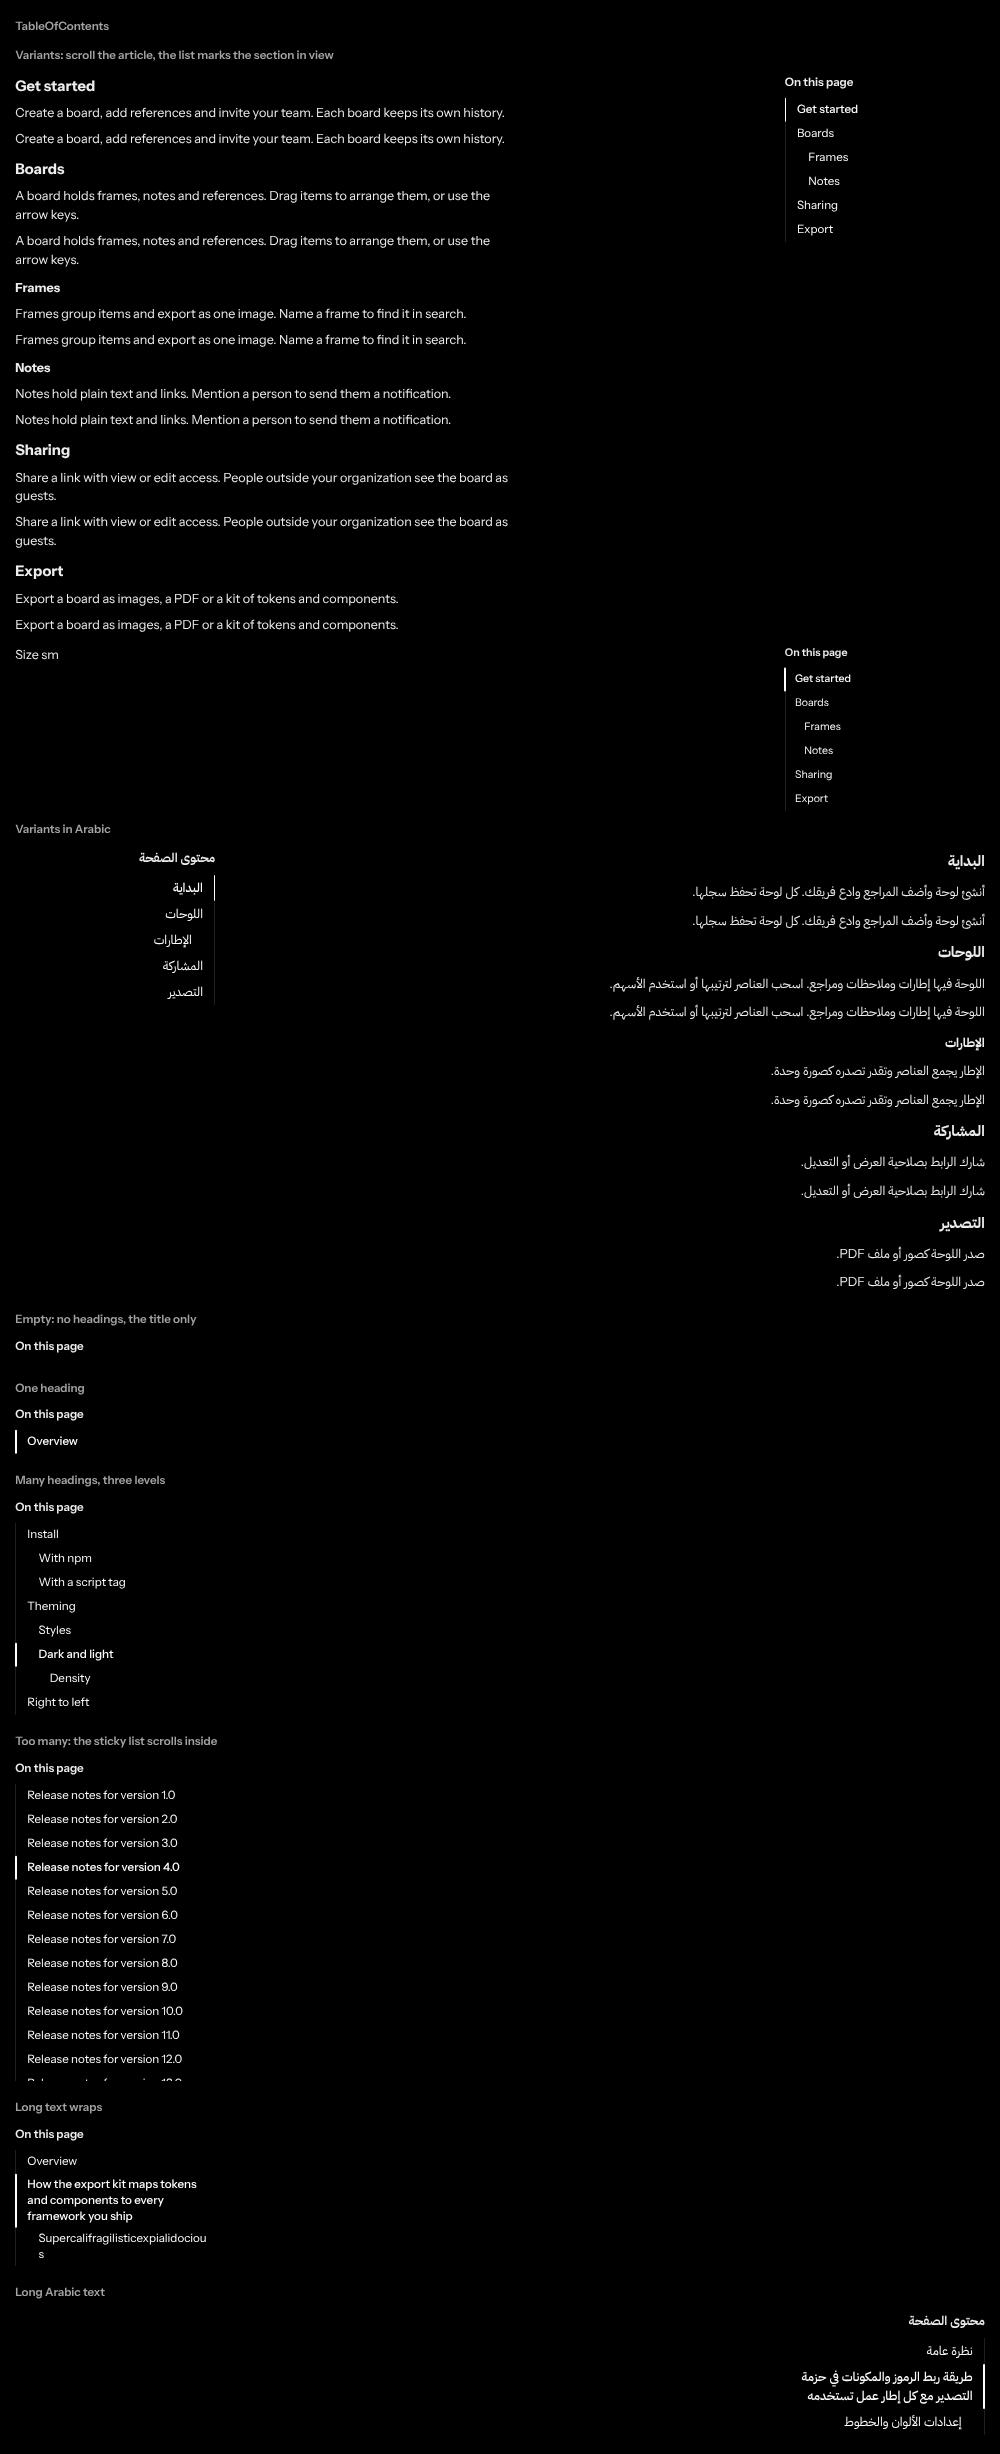
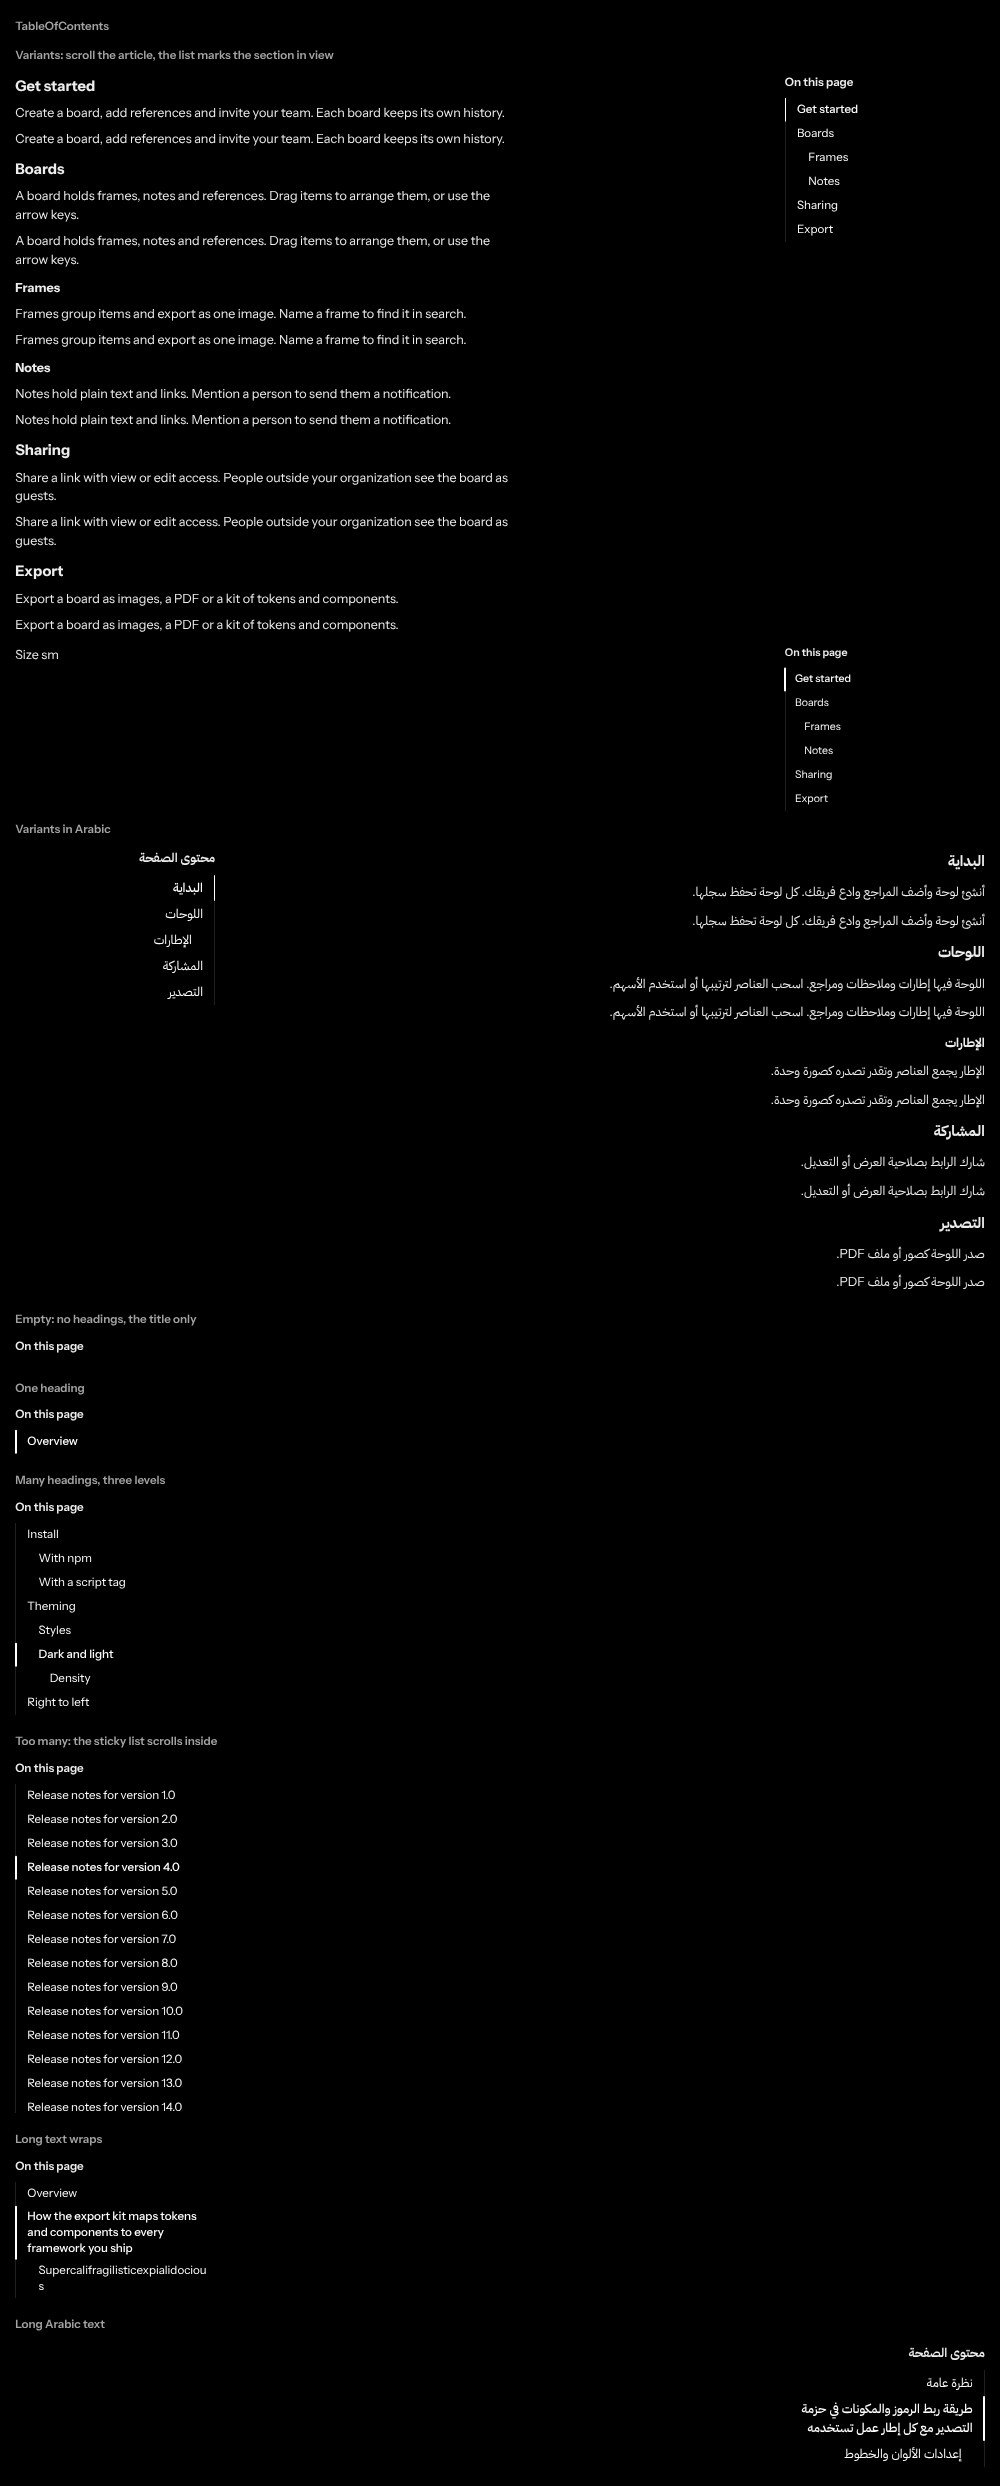
wo-1.7.10: table of contents review fixes
Claude-Session: https://claude.ai/code/session_01ErLBsaPqGo8ipZihqhLTXM

diff --git a/packages/react/src/components/TableOfContents/TableOfContents.tsx b/packages/react/src/components/TableOfContents/TableOfContents.tsx
@@ -28,7 +28,12 @@
 //   again, so nothing runs on every scroll frame.
 // - Enter or a click scrolls to the heading (smooth, or a jump under reduced
 //   motion), moves focus to it (tabindex -1 only when it is not focusable)
-//   and sets the URL fragment without a second jump.
+//   and sets the URL fragment with history.pushState, so there is no second
+//   jump (and no hashchange event). While that scroll plays, the sections
+//   passed on the way are not marked; scrollend lifts the hold.
+// - A heading counts as reached at the reading line: offset plus a fifth of
+//   the viewport, at most 64px. The observer watches that line; scrollend
+//   also measures, which marks the last section at the bottom of the page.
 // - The indicator moves with transform only (pattern "tab-indicator"); its
 //   length is set at once. Under reduced motion the duration token is 0ms.
 import {
@@ -120,6 +125,10 @@ export function TableOfContents({
   useEffect(() => {
     changeRef.current = onActiveChange;
   });
+  // Set while a link's scroll plays: the sections passed on the way are not marked.
+  const lockRef = useRef<string | null>(null);
+  // Bumped when the list resizes, so the indicator is measured again.
+  const [layoutTick, setLayoutTick] = useState(0);
 
   const lastRef = useRef<string | null>(tracked);
   const setActive = useCallback((id: string | null) => {
@@ -131,6 +140,14 @@ export function TableOfContents({
 
   const ids = useMemo(() => items.map((i) => i.id).join(' '), [items]);
 
+  // New headings: start from the fragment of the URL when it names one, else the first.
+  useEffect(() => {
+    const view = rootRef.current?.ownerDocument.defaultView;
+    const list = ids ? ids.split(' ') : [];
+    const fromHash = view ? decodeURIComponent(view.location.hash.slice(1)) : '';
+    setActive(list.includes(fromHash) ? fromHash : (list[0] ?? null));
+  }, [ids, setActive]);
+
   // Track the section in view. The observer only says "measure again"; activeHeading decides.
   useEffect(() => {
     const doc = rootRef.current?.ownerDocument;
@@ -141,30 +158,51 @@ export function TableOfContents({
       .map((id) => (id ? doc.getElementById(id) : null))
       .filter((el): el is HTMLElement => el !== null);
     if (headings.length === 0) return;
+    // The reading line: the offset plus a fifth of the viewport (at most 64px), so a heading just scrolled to counts as reached.
+    const line = offset + Math.min(64, Math.round(view.innerHeight / 5));
     let frame = 0;
     const measure = () => {
       frame = 0;
+      if (lockRef.current !== null) return;
       const scroller = doc.scrollingElement;
       const atEnd = scroller ? scroller.scrollTop > 0 && scroller.scrollTop + view.innerHeight >= scroller.scrollHeight - 2 : false;
       const rects = headings.map((el) => ({ id: el.id, top: el.getBoundingClientRect().top }));
-      // The reading line: the offset plus a fifth of the viewport (at most 64px), so a heading just scrolled to counts as reached.
-      setActive(activeHeading(rects, offset + Math.min(64, Math.round(view.innerHeight / 5)), atEnd));
+      setActive(activeHeading(rects, line, atEnd));
     };
     const schedule = () => {
       if (!frame) frame = view.requestAnimationFrame(measure);
     };
+    // A heading crossing the reading line fires the observer.
     const observer = new view.IntersectionObserver(schedule, {
-      rootMargin: `${-offset}px 0px 0px 0px`,
+      rootMargin: `${-line}px 0px 0px 0px`,
       threshold: [0, 1],
     });
     for (const el of headings) observer.observe(el);
+    // The end of a scroll: lifts the lock of a link jump, and catches the page bottom, where no heading crosses the line.
+    const onScrollEnd = () => {
+      lockRef.current = null;
+      schedule();
+    };
+    view.addEventListener('scrollend', onScrollEnd);
     return () => {
       observer.disconnect();
+      view.removeEventListener('scrollend', onScrollEnd);
       if (frame) view.cancelAnimationFrame(frame);
     };
   }, [ids, offset, setActive]);
 
+  // Measure again when the list resizes (wrapping, fonts loading).
+  useEffect(() => {
+    const root = rootRef.current;
+    const view = root?.ownerDocument.defaultView;
+    if (!root || !view || typeof view.ResizeObserver !== 'function') return;
+    const observer = new view.ResizeObserver(() => setLayoutTick((n) => n + 1));
+    observer.observe(root);
+    return () => observer.disconnect();
+  }, []);
+
   // Place the indicator beside the active link: transform moves it, block-size is set at once.
+  // In the sticky form, the active link is also kept in view inside the list, without scrolling the page.
   useLayoutEffect(() => {
     const root = rootRef.current;
     const bar = indicatorRef.current;
@@ -180,14 +218,36 @@ export function TableOfContents({
     const box = link.getBoundingClientRect();
     bar.style.setProperty('--_toc-indicator-offset', `${box.top - rootBox.top + root.scrollTop}px`);
     bar.style.setProperty('--_toc-indicator-size', `${box.height}px`);
-  }, [active, tree]);
+    if (sticky && root.scrollHeight > root.clientHeight) {
+      if (box.top < rootBox.top) root.scrollTop -= rootBox.top - box.top;
+      else if (box.bottom > rootBox.bottom) root.scrollTop += box.bottom - rootBox.bottom;
+    }
+  }, [active, tree, sticky, layoutTick]);
 
   const onLinkClick = (id: string) => (event: MouseEvent<HTMLAnchorElement>) => {
     if (event.button !== 0 || event.metaKey || event.ctrlKey || event.shiftKey || event.altKey) return;
-    if (!jumpTo(id, event.currentTarget.ownerDocument)) return;
+    const doc = event.currentTarget.ownerDocument;
+    // Hold the mark on the chosen section while the scroll plays; scrollend lifts it.
+    lockRef.current = id;
+    if (!jumpTo(id, doc)) {
+      lockRef.current = null;
+      return;
+    }
     event.preventDefault();
     setActive(id);
+    // A page that cannot scroll there fires no scrollend: lift the lock after the longest smooth scroll.
+    doc.defaultView?.setTimeout(() => {
+      if (lockRef.current === id) lockRef.current = null;
+    }, 1000);
   };
+
+  const setRootRef = useCallback(
+    (node: HTMLElement | null) => {
+      rootRef.current = node;
+      assignRef(ref, node);
+    },
+    [ref],
+  );
 
   const renderList = (nodes: readonly TocNode[]): ReactNode => (
     <ol data-part="list">
@@ -216,13 +276,11 @@ export function TableOfContents({
   return (
     <nav
       {...rest}
-      ref={(node: HTMLElement | null) => {
-        rootRef.current = node;
-        assignRef(ref, node);
-      }}
+      ref={setRootRef}
       data-ds="table-of-contents"
       data-size={size}
       data-sticky={sticky ? '' : undefined}
+      style={sticky && offset ? { ...rest.style, ['--_toc-sticky-offset' as string]: `calc(${offset}px + var(--ds-space-l))` } : rest.style}
       aria-labelledby={titleText === false ? rest['aria-labelledby'] : titleId}
     >
       {titleText !== false && (

diff --git a/packages/react/src/components/TableOfContents/TableOfContents.test.tsx b/packages/react/src/components/TableOfContents/TableOfContents.test.tsx
@@ -130,6 +130,65 @@ describe('TableOfContents', () => {
     expect(screen.getByRole('link', { name: 'Theming' }).getAttribute('aria-current')).toBe('location');
   });
 
+  it('holds the clicked section while the scroll plays, until scrollend', () => {
+    let callback: (() => void) | undefined;
+    vi.stubGlobal(
+      'IntersectionObserver',
+      class {
+        constructor(cb: () => void) {
+          callback = cb;
+        }
+        observe() {}
+        disconnect() {}
+      },
+    );
+    vi.stubGlobal('requestAnimationFrame', (cb: FrameRequestCallback) => {
+      cb(0);
+      return 1;
+    });
+    Element.prototype.scrollIntoView = vi.fn();
+    const onActiveChange = vi.fn();
+    render(<Page onActiveChange={onActiveChange} />);
+    const tops: Record<string, number> = { a: -100, a1: 10, b: 400 };
+    for (const id of Object.keys(tops)) {
+      document.getElementById(id)!.getBoundingClientRect = () => ({ top: tops[id] }) as DOMRect;
+    }
+    fireEvent.click(screen.getByRole('link', { name: 'Theming' }));
+    expect(onActiveChange).toHaveBeenLastCalledWith('b');
+    // On the way down, a1 crosses the line: the mark stays on b.
+    act(() => callback?.());
+    expect(onActiveChange).toHaveBeenLastCalledWith('b');
+    // The scroll ends with b at the top.
+    tops.a1 = -300;
+    tops.b = 0;
+    act(() => {
+      window.dispatchEvent(new Event('scrollend'));
+    });
+    expect(onActiveChange).toHaveBeenLastCalledWith('b');
+    expect(onActiveChange).not.toHaveBeenCalledWith('a1');
+  });
+
+  it('marks the section the URL fragment names on load, and disconnects on unmount', () => {
+    const disconnect = vi.fn();
+    vi.stubGlobal(
+      'IntersectionObserver',
+      class {
+        observe() {}
+        disconnect = disconnect;
+      },
+    );
+    window.history.replaceState(null, '', '#a1');
+    const { unmount } = render(<Page />);
+    expect(screen.getByRole('link', { name: 'Install' }).getAttribute('aria-current')).toBe('location');
+    unmount();
+    expect(disconnect).toHaveBeenCalled();
+  });
+
+  it('sets the sticky top from offset', () => {
+    const { container } = render(<Page sticky offset={56} />);
+    expect(root(container).style.getPropertyValue('--_toc-sticky-offset')).toBe('calc(56px + var(--ds-space-l))');
+  });
+
   it('sets size, sticky, a custom title, and the Arabic default title', () => {
     const { container, rerender } = render(<Page size="sm" sticky title="In this guide" />);
     expect(root(container).getAttribute('data-size')).toBe('sm');

diff --git a/packages/css/src/components/TableOfContents.css b/packages/css/src/components/TableOfContents.css
@@ -12,7 +12,7 @@
  *   --_toc-indent                        the inset of each nested level
  *   --_toc-rail                          the hairline the indicator runs along
  *   --_toc-indicator-bg                  the indicator bar
- *   --_toc-sticky-offset                 the gap above the sticky form
+ *   --_toc-sticky-offset                 the gap above the sticky form; the component sets it to offset plus space.l when offset is given
  *   --_toc-ring                          the focus ring, a box shadow
  *
  * The indicator offset and length (--_toc-indicator-offset, -size) are set
@@ -71,10 +71,13 @@
     max-block-size: var(--ds-dialog-height-max);
     overflow-y: auto;
     overscroll-behavior: contain;
+    /* The active link is kept in view inside the list; keep a row of room around it. */
+    scroll-padding-block: var(--ds-size-target-min);
   }
 
   [data-ds='table-of-contents'] > [data-part='title'] {
-    margin: 0 0 var(--ds-space-s);
+    margin-block: 0 var(--ds-space-s);
+    margin-inline: 0;
     color: var(--_toc-title-fg);
     font-weight: var(--ds-font-weight-semibold);
   }
@@ -169,6 +172,7 @@
 
   @media (forced-colors: active) {
     [data-ds='table-of-contents'] > [data-part='indicator'] {
+      forced-color-adjust: none;
       background-color: Highlight;
     }
 

diff --git a/packages/react/src/components/TableOfContents/TableOfContents.demo.tsx b/packages/react/src/components/TableOfContents/TableOfContents.demo.tsx
@@ -111,7 +111,7 @@ export default function TableOfContentsDemo() {
       </DemoCase>
 
       <DemoCase id="too-many" title="Too many: the sticky list scrolls inside">
-        <div style={{ blockSize: 'var(--ds-shell-sidebar-width-start)', display: 'grid' }}>
+        <div style={{ blockSize: 'calc(8 * var(--ds-size-control-lg))', display: 'grid' }}>
           <TableOfContents items={tooMany} sticky active="too-many-3" />
         </div>
       </DemoCase>
